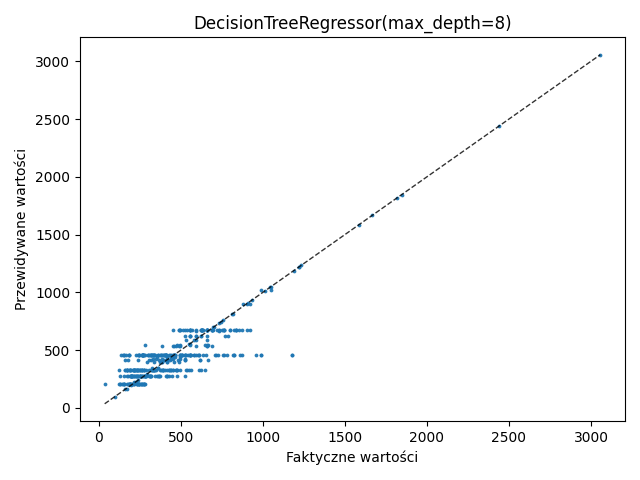
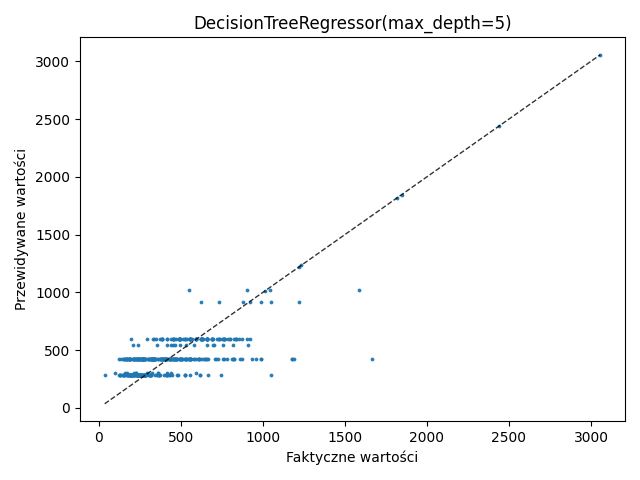
10kfold

diff --git a/exercise-5-scikit/main.py b/exercise-5-scikit/main.py
@@ -5,6 +5,8 @@ import seaborn as sns
 import sklearn.ensemble
 from sklearn import linear_model
 from sklearn import neighbors
+from sklearn.model_selection import cross_val_score, KFold
+from sklearn.preprocessing import RobustScaler
 from sklearn.tree import DecisionTreeRegressor, plot_tree
 from sklearn.neural_network import MLPRegressor
 from sklearn.svm import SVR
@@ -201,7 +203,7 @@ def present_supposedly_best_model(frame: pd.DataFrame):
   scaler = RobustScaler()
   X = scaler.fit_transform(X)
 
-  model = DecisionTreeRegressor(max_depth=8)
+  model = DecisionTreeRegressor(max_depth=5)
   model.fit(X, y)
 
   plt.figure(figsize=(60, 30))
@@ -214,13 +216,85 @@ def present_supposedly_best_model(frame: pd.DataFrame):
   plt.scatter(y, y_pred, marker='o', s=3, alpha=0.9)
   plt.xlabel('Faktyczne wartości')
   plt.ylabel('Przewidywane wartości')
-  plt.title('DecisionTreeRegressor(max_depth=8)')
+  plt.title('DecisionTreeRegressor(max_depth=5)')
 
   plt.plot([y.min(), y.max()], [y.min(), y.max()], '--k', lw=1, alpha=0.8)
   plt.tight_layout()
 
   plt.savefig(f'resources/figures/best-model-slice.png')
   plt.show()
+
+
+def validate_models_with_normalized_features_using_10folds(frame: pd.DataFrame):
+  contents = frame.to_numpy()
+
+  X = contents[:, 0:-1]
+  y = contents[:, -1]
+
+  from sklearn.preprocessing import RobustScaler
+  scaler = RobustScaler()
+  X = scaler.fit_transform(X)
+
+  scores = []
+  k_fold = KFold(n_splits=10, shuffle=True)
+  for (name, regressor) in [
+    ("Random Forest-2", RandomForestRegressor(max_depth=2)),
+    ("Random Forest-5", RandomForestRegressor(max_depth=5)),
+    ("Random Forest-8", RandomForestRegressor(max_depth=8)),
+    ("Random Forest-unbound", RandomForestRegressor(max_depth=None)),
+    ("Linear Regression", linear_model.LinearRegression()),
+    ("Ridge", linear_model.Ridge()),
+    ("Lasso", linear_model.Lasso()),
+    ("Elastic Net", linear_model.ElasticNet()),
+    ("Bayesian Ridge", linear_model.BayesianRidge()),
+    ("Knn-1", neighbors.KNeighborsRegressor(n_neighbors=1)),
+    ("Knn-2", neighbors.KNeighborsRegressor(n_neighbors=2)),
+    ("Knn-3", neighbors.KNeighborsRegressor(n_neighbors=3)),
+    ("Knn-4", neighbors.KNeighborsRegressor(n_neighbors=4)),
+    ("Knn-8", neighbors.KNeighborsRegressor(n_neighbors=8)),
+    ("Knn-13", neighbors.KNeighborsRegressor(n_neighbors=13)),
+    ("Knn-21", neighbors.KNeighborsRegressor(n_neighbors=21)),
+    ("Tree-2", DecisionTreeRegressor(max_depth=2)),
+    ("Tree-5", DecisionTreeRegressor(max_depth=5)),
+    ("Tree-8", DecisionTreeRegressor(max_depth=8)),
+    ("Tree-unbound", DecisionTreeRegressor(max_depth=None)),
+    ("Pony", MLPRegressor()),
+    ("svr-rbf", SVR(kernel="rbf")),
+    ("svr-linear", SVR(kernel="linear")),
+    ("svr-poly", SVR(kernel="poly")),
+    ("ard", linear_model.ARDRegression()),
+    ("sgd", linear_model.SGDRegressor()),
+    ("adaboost", ensemble.AdaBoostRegressor()),
+    ("gradientboosting", ensemble.GradientBoostingRegressor()),
+  ]:
+    print(f"Validating {name}...")
+    rmse_scores = -cross_val_score(regressor, X, y, cv=k_fold, scoring='neg_root_mean_squared_error')
+    r2_scores = cross_val_score(regressor, X, y, cv=k_fold, scoring='r2')
+    rmse_avg = np.average(rmse_scores)
+    r2_avg = np.average(r2_scores)
+    scores.append((name, (r2_avg, rmse_avg)))
+
+  for name, (r2, rmse) in scores: print(format_scores(name, r2, rmse))
+
+  r2_scores = [r2 for _, (r2, _) in scores]
+  rmse_scores = [rmse for _, (_, rmse) in scores]
+  figure, axes = plt.subplots(1, 2, figsize=(32, 8))
+  sns.barplot(x=[name for name, _ in scores], y=r2_scores, ax=axes[0])
+  axes[0].set_title("R2 Average Scores with normalized features")
+  axes[0].set_ylabel("R2 Average Score")
+  axes[0].set_xticklabels(labels=[name for name, _ in scores], rotation=60)
+
+  sns.barplot(x=[name for name, _ in scores], y=rmse_scores, ax=axes[1])
+  axes[1].set_title("RMSE Average Scores with normalized features")
+  axes[1].set_ylabel("RMSE Average Score")
+  axes[1].set_xticklabels(labels=[name for name, _ in scores], rotation=60)
+
+  plt.tight_layout()
+  plt.savefig(f'resources/figures/10fold-model-metrics.png')
+  plt.show()
+
+
+
 
 
 def prelude():
@@ -234,6 +308,7 @@ def prelude():
   if not os.path.exists('resources/datasets/regression.txt'):
     raise Exception("Missing dataset file: resources/datasets/regression.txt")
 
+
 def main():
   prelude()
 
@@ -246,6 +321,8 @@ def main():
   # test_models_with_normalized_features(frame)
 
   present_supposedly_best_model(frame)
+
+  # validate_models_with_normalized_features_using_10folds(frame)
 
 
 if __name__ == '__main__':
